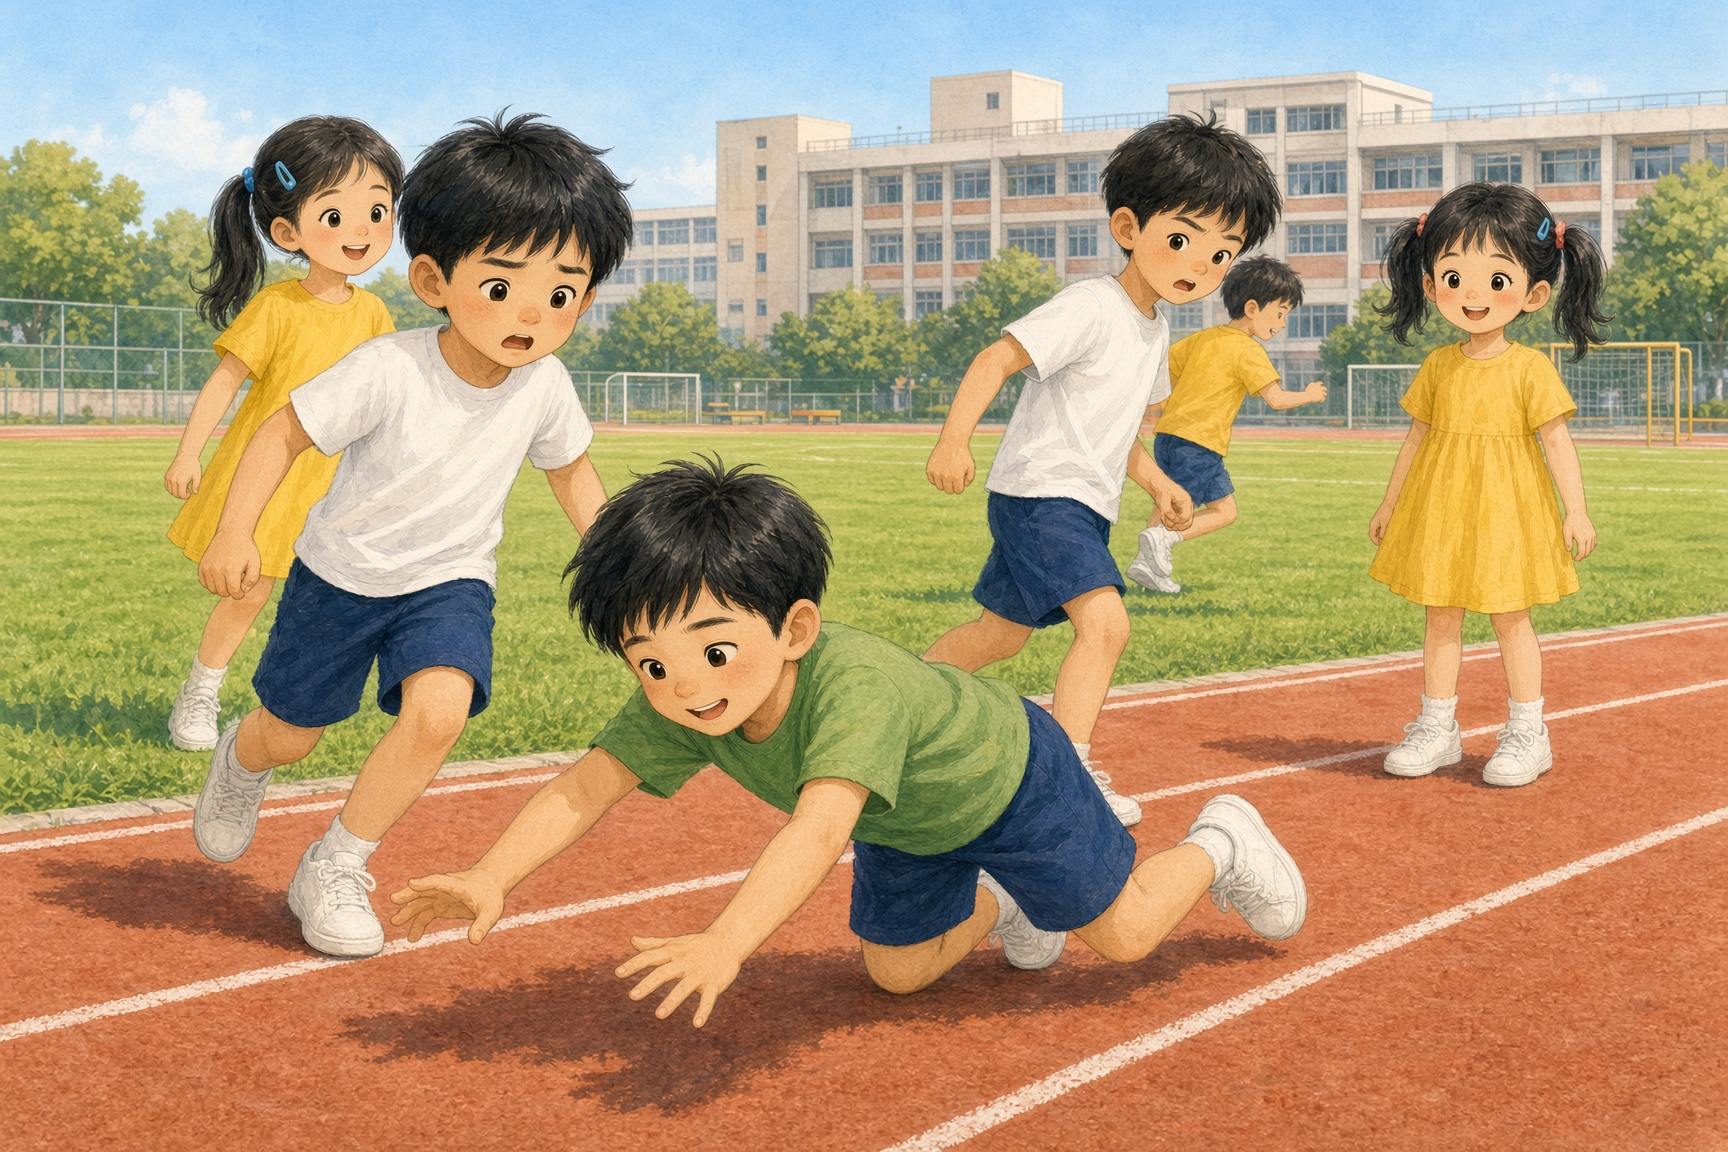
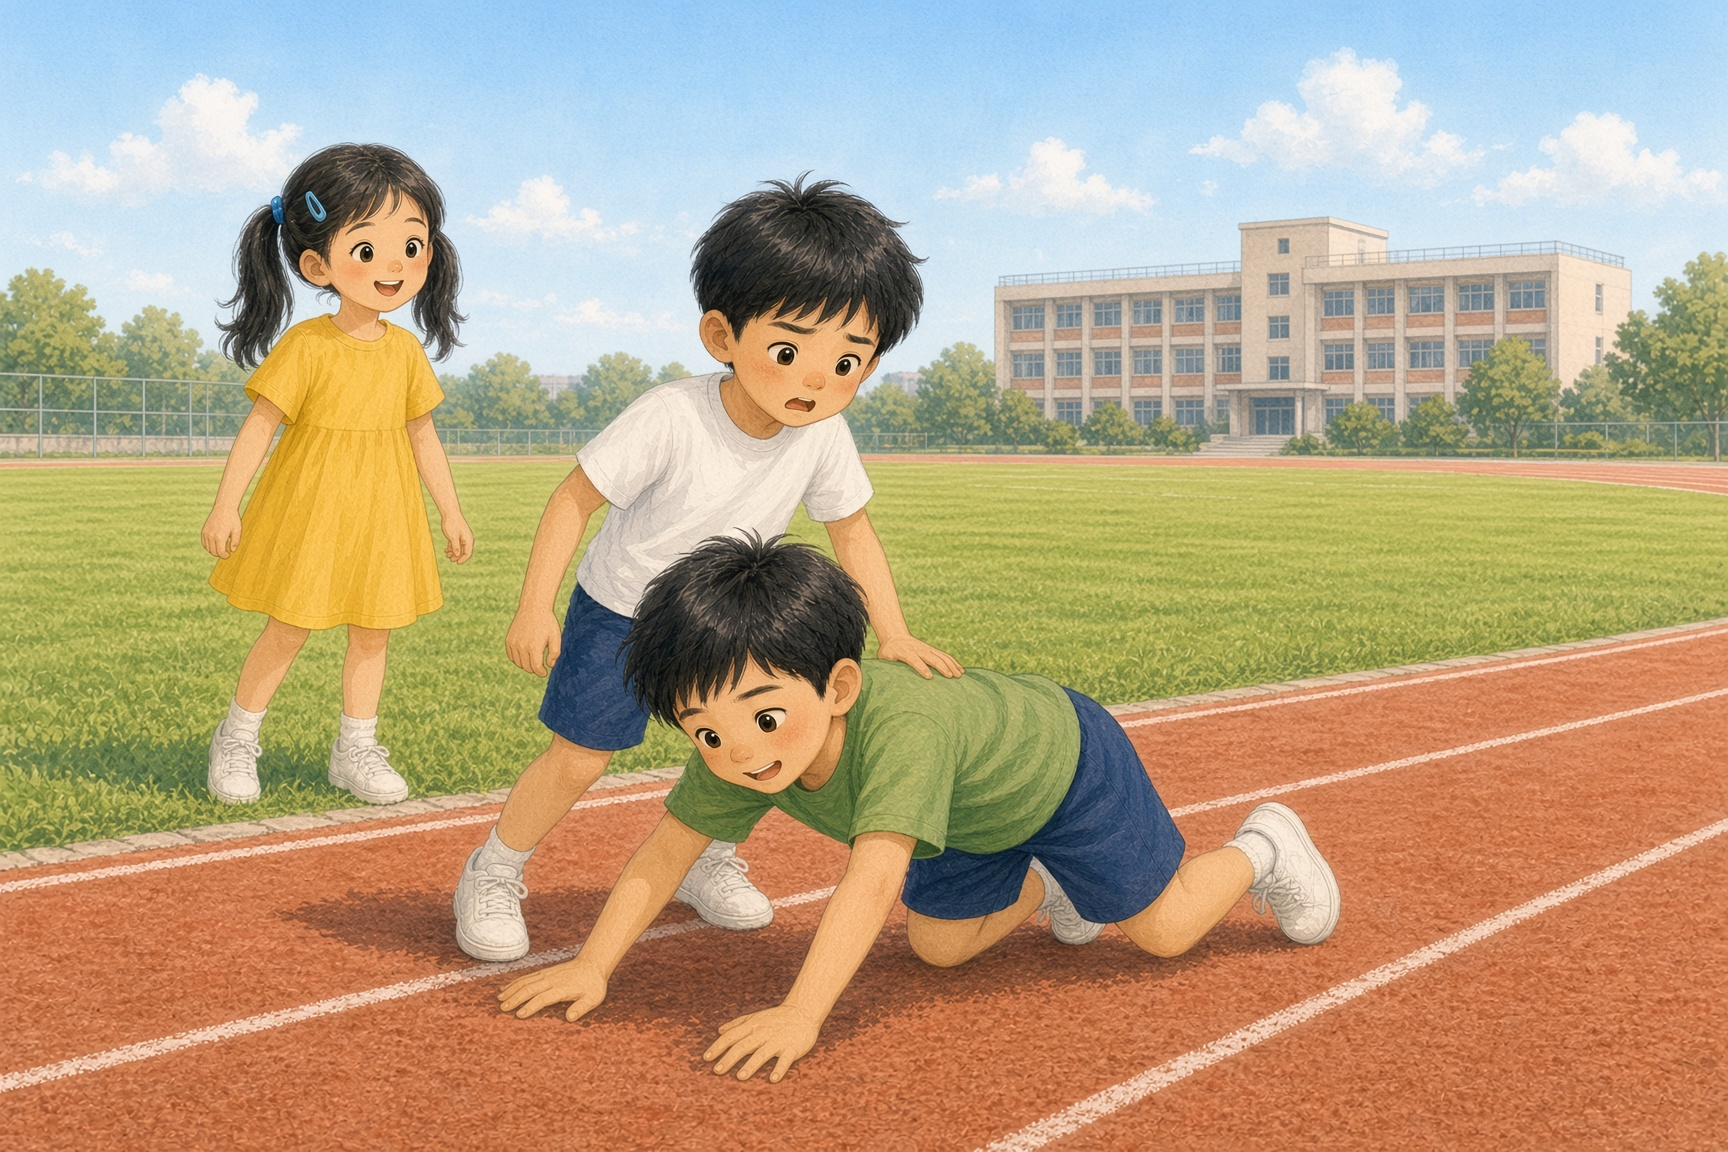
Simplify fall panel 1 and match Anan's yellow dress in panel 4

diff --git a/stories.js b/stories.js
@@ -90,7 +90,7 @@ window.STORIES = [
       {
         caption: "操場上，有同學跑步時跌倒了。",
         hint: "發生了什麼事？誰受傷？",
-        image: "comics/fall/1.jpg?v=2",
+        image: "comics/fall/1.jpg?v=3",
       },
       {
         caption: "其他人繼續跑，樂樂停下來走過去。",
@@ -105,7 +105,7 @@ window.STORIES = [
       {
         caption: "護士幫同學搽藥，同學多謝樂樂。",
         hint: "後來誰來幫忙？結果怎樣？",
-        image: "comics/fall/4.jpg?v=2",
+        image: "comics/fall/4.jpg?v=3",
       },
     ],
     starters: [
